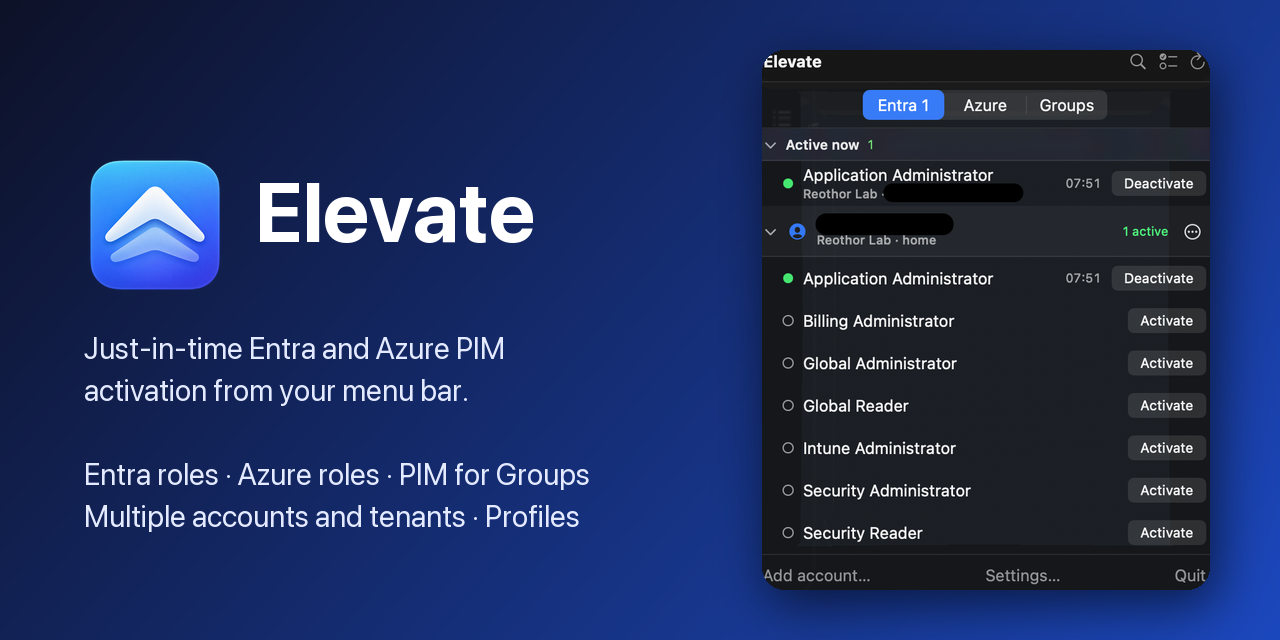
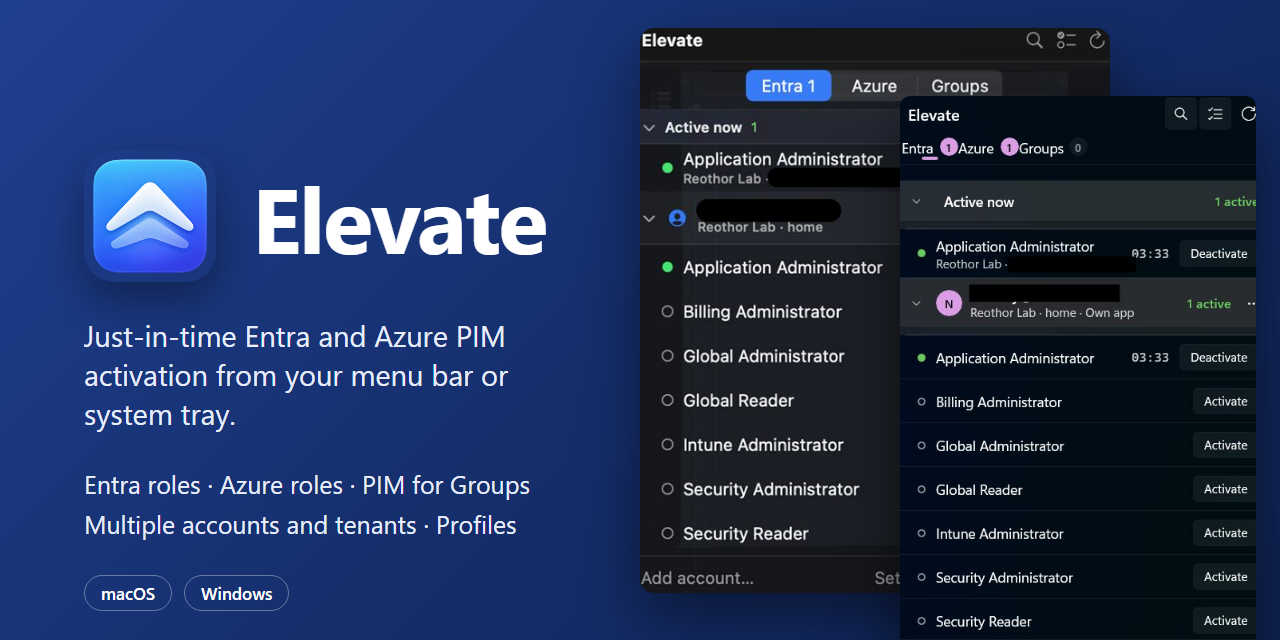
README badges and app table for Windows, social preview with both panels, "Elevate for Mac" release title

diff --git a/README.md b/README.md
@@ -1,6 +1,6 @@
 <h1><img src="docs/images/icon.png" width="48" alt="" align="absmiddle"> Elevate</h1>
 
-[![macOS CI](https://github.com/FrodeHus/elevate/actions/workflows/macos.yml/badge.svg)](https://github.com/FrodeHus/elevate/actions/workflows/macos.yml) [![Latest release](https://img.shields.io/github/v/release/FrodeHus/elevate)](https://github.com/FrodeHus/elevate/releases/latest) [![License](https://img.shields.io/github/license/FrodeHus/elevate)](LICENSE) [![macOS 26+](https://img.shields.io/badge/macOS-26%2B-blue)](#install-macos)
+[![macOS CI](https://github.com/FrodeHus/elevate/actions/workflows/macos.yml/badge.svg)](https://github.com/FrodeHus/elevate/actions/workflows/macos.yml) [![Windows CI](https://github.com/FrodeHus/elevate/actions/workflows/windows.yml/badge.svg)](https://github.com/FrodeHus/elevate/actions/workflows/windows.yml) [![Latest release](https://img.shields.io/github/v/release/FrodeHus/elevate)](https://github.com/FrodeHus/elevate/releases/latest) [![License](https://img.shields.io/github/license/FrodeHus/elevate)](LICENSE) [![macOS 26+](https://img.shields.io/badge/macOS-26%2B-blue)](#install-macos) [![Windows 11](https://img.shields.io/badge/Windows-11-blue)](windows/README.md#install)
 
 Just-in-time Microsoft Entra and Azure PIM role activation from your menu bar or system tray, across accounts and tenants.
 
@@ -11,6 +11,7 @@ Elevate lists every account you have signed in with, each tenant that account ca
 | App | Status | Docs |
 |---|---|---|
 | [macOS](macos/) — SwiftUI menu bar app, macOS 26 | Usable: Entra roles, Azure roles, PIM for Groups, profiles, sign-in methods | [macos/README.md](macos/README.md) |
+| [Windows](windows/) — WinUI 3 tray app, Windows 11 | Usable: the same features, unsigned MSI for now | [windows/README.md](windows/README.md) |
 
 ## Install (macOS)
 
@@ -113,7 +114,7 @@ flow; see [Sign-in methods](macos/README.md#sign-in-methods).
 | App registration, permissions, consent, troubleshooting sign-in errors | [docs/entra-app-registration.md](docs/entra-app-registration.md) |
 | macOS app: build, sign-in methods, panel, profiles, manual roles, smoke test | [macos/README.md](macos/README.md) |
 | Cutting a release: tagging, the workflow, signing secrets, the cask | [docs/releasing.md](docs/releasing.md) |
-| Windows app plan | [windows/README.md](windows/README.md) |
+| Windows app: build, install, installer and winget manifest, release | [windows/README.md](windows/README.md) |
 | Design specs | [docs/superpowers/specs/](docs/superpowers/specs/) |
 | Implementation plans | [docs/superpowers/plans/](docs/superpowers/plans/) |
 
@@ -126,8 +127,8 @@ the [issue tracker](https://github.com/FrodeHus/elevate/issues); what changed in
 
 ## Roadmap
 
-- **Windows 11 tray app (WinUI 3, .NET 10): designed, not yet implemented** — see
-  [windows/README.md](windows/README.md).
+- **Windows: code signing and winget submission** — releases are unsigned until Azure Artifact
+  Signing is set up; see [windows/README.md](windows/README.md).
 
 ## License
 
